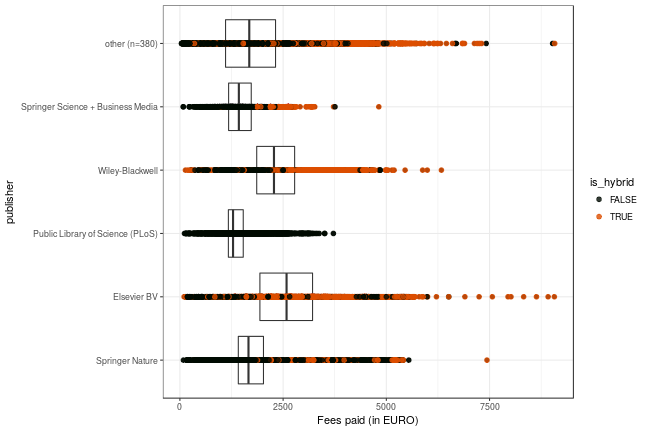
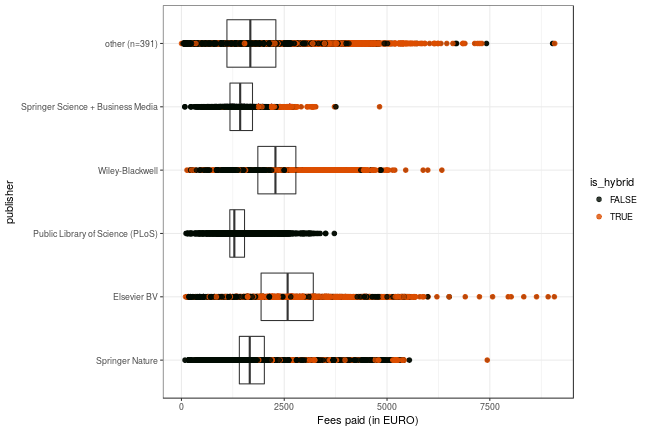
post: openapc-se ingestion

diff --git a/about.md b/about.md
@@ -247,13 +247,13 @@ Jisc Collections released data on APC payments made by UK higher education insti
 
 Information on both open access journal articles and open access publication of articles in toll-access journals ("hybrid") are provided.
 
-In total,  100 626 799 € for  52 945 articles were paid by the participating unviversities. Average  fee is 1 900.6 € and the median 1 701 €.
+In total,  102 770 206 € for  54 183 articles were paid by the participating unviversities. Average  fee is 1 896.7 € and the median 1 698 €.
 
 ### Open Access Journals
 
 
 
-At the moment, the dataset releases information on 31 090 articles in open access journals which charge publication fees. Total expenditure amounts to  46 254 724 €. Average  fee is 1 487.8 € and the median 1 413 €.
+At the moment, the dataset releases information on 31 816 articles in open access journals which charge publication fees. Total expenditure amounts to  47 255 463 €. Average  fee is 1 485.3 € and the median 1 409 €.
 
 View dataset on [GitHub](https://github.com/OpenAPC/openapc-de/blob/master/data/apc_de.csv).
 
@@ -271,11 +271,12 @@ View dataset on [GitHub](https://github.com/OpenAPC/openapc-de/blob/master/data/
 |BI Norwegian Business School                                    |        4|             2,761|           690|    724|
 |Bielefeld U                                                     |      430|           561,779|         1,306|  1,340|
 |Bochum U                                                        |      204|           304,382|         1,492|  1,562|
+|Borås University College                                        |       NA|                NA|            NA|     NA|
 |Bremen U                                                        |      390|           552,016|         1,415|  1,345|
 |Cardiff University                                              |      169|           289,389|         1,712|  1,562|
-|Chalmers University of Technology                               |        3|             2,142|           714|    560|
+|Chalmers University of Technology                               |        6|             5,817|           970|  1,012|
 |Cranfield University                                            |       10|            14,348|         1,435|  1,530|
-|Dalarna University College                                      |       27|            38,434|         1,423|  1,698|
+|Dalarna University College                                      |       28|            39,181|         1,399|  1,667|
 |Dortmund TU                                                     |       38|            39,184|         1,031|    962|
 |Duisburg-Essen U                                                |      235|           320,066|         1,362|  1,276|
 |Erlangen Nuernberg U                                            |      707|         1,017,252|         1,439|  1,514|
@@ -315,16 +316,17 @@ View dataset on [GitHub](https://github.com/OpenAPC/openapc-de/blob/master/data/
 |King's College London                                           |      197|           398,725|         2,024|  1,588|
 |KIT                                                             |      674|           903,682|         1,341|  1,382|
 |Konstanz U                                                      |      345|           524,743|         1,521|  1,506|
-|KTH Royal Institute of Technology                               |      106|           129,263|         1,219|  1,072|
+|KTH Royal Institute of Technology                               |      181|           217,262|         1,200|  1,152|
 |Lancaster University                                            |       28|            34,167|         1,220|  1,221|
 |Leibniz-Fonds                                                   |      274|           439,562|         1,604|  1,570|
 |Leipzig U                                                       |      415|           611,856|         1,474|  1,553|
-|Linköping University                                            |       99|           155,146|         1,567|  1,355|
+|Linköping University                                            |      167|           262,221|         1,570|  1,357|
+|Linnaeus University                                             |        1|               630|           630|    630|
 |LSE                                                             |       14|            26,721|         1,909|  1,798|
 |LSHTM                                                           |       44|            65,024|         1,478|  1,503|
-|Luleå University of Technology                                  |       15|            15,352|         1,023|  1,088|
-|Lund University                                                 |        7|             6,555|           936|    755|
-|Malmö University College                                        |        4|             4,007|         1,002|    890|
+|Luleå University of Technology                                  |       51|            53,627|         1,052|  1,150|
+|Lund University                                                 |       24|            32,295|         1,346|  1,410|
+|Malmö University                                                |       23|            25,942|         1,128|  1,394|
 |Manchester Metropolitan University                              |       10|            14,997|         1,500|  1,421|
 |MDC                                                             |       93|           188,106|         2,023|  1,800|
 |Milano U                                                        |      121|           185,356|         1,532|  1,495|
@@ -347,6 +349,7 @@ View dataset on [GitHub](https://github.com/OpenAPC/openapc-de/blob/master/data/
 |Norwegian University of Science and Technology                  |      115|           162,119|         1,410|  1,420|
 |Oldenburg U                                                     |      177|           215,062|         1,215|  1,361|
 |OpenAIRE                                                        |      537|           778,991|         1,451|  1,413|
+|Örebro University                                               |       64|            84,298|         1,317|  1,342|
 |Oslo and Akershus university college                            |       36|            45,728|         1,270|  1,252|
 |Oslo University Hospital                                        |      111|           149,777|         1,349|  1,392|
 |Osnabrück U                                                     |       65|            90,046|         1,385|  1,553|
@@ -360,10 +363,10 @@ View dataset on [GitHub](https://github.com/OpenAPC/openapc-de/blob/master/data/
 |SINTEF                                                          |        3|             3,633|         1,211|  1,176|
 |Sørlandet Hospital Trust                                        |        5|             8,453|         1,691|  1,667|
 |St George's, University of London                               |       19|            36,284|         1,910|  1,862|
-|Stockholm University                                            |       95|           144,255|         1,518|  1,399|
+|Stockholm University                                            |      273|           412,332|         1,510|  1,338|
 |Stuttgart U                                                     |      210|           254,329|         1,211|  1,261|
 |Swansea University                                              |       36|            59,942|         1,665|  1,332|
-|Swedish University of Agricultural Sciences                     |      343|           449,661|         1,311|  1,326|
+|Swedish University of Agricultural Sciences                     |      450|           595,056|         1,322|  1,328|
 |Swiss National Science Foundation (SNSF)                        |      244|           395,297|         1,620|  1,361|
 |TIB                                                             |        1|             1,619|         1,619|  1,619|
 |TiHo Hannover                                                   |      137|           194,193|         1,417|  1,416|
@@ -381,7 +384,7 @@ View dataset on [GitHub](https://github.com/OpenAPC/openapc-de/blob/master/data/
 |UCL                                                             |    1,643|         2,695,082|         1,640|  1,534|
 |UFZ                                                             |       40|            42,186|         1,055|    979|
 |Ulm U                                                           |      191|           294,038|         1,539|  1,541|
-|Umeå University                                                 |        8|             6,104|           763|    724|
+|Umeå University                                                 |       10|            10,604|         1,060|    755|
 |Uni Research                                                    |       19|            28,070|         1,477|  1,474|
 |Universitat de Barcelona                                        |      465|           443,659|           954|    897|
 |Université de Bordeaux                                          |       19|            27,522|         1,449|  1,258|
@@ -395,6 +398,7 @@ View dataset on [GitHub](https://github.com/OpenAPC/openapc-de/blob/master/data/
 |Université Nice-Sophia-Antipolis                                |        2|             2,600|         1,300|  1,300|
 |Université Pierre et Marie Curie (Paris VI)                     |       32|            50,846|         1,589|  1,396|
 |University College of Southeast Norway                          |       19|            19,107|         1,006|    907|
+|University College West                                         |        6|             4,868|           811|    729|
 |University of Aberdeen                                          |       26|            48,895|         1,881|  1,787|
 |University of Agder                                             |       62|            42,571|           687|    536|
 |University of Bath                                              |       35|            48,597|         1,388|  1,392|
@@ -407,7 +411,7 @@ View dataset on [GitHub](https://github.com/OpenAPC/openapc-de/blob/master/data/
 |University of Edinburgh                                         |      157|           268,393|         1,710|  1,632|
 |University of Exeter                                            |       59|           103,364|         1,752|  1,395|
 |University of Glasgow                                           |      144|           272,944|         1,895|  1,568|
-|University of Gothenburg                                        |      192|           292,079|         1,521|  1,406|
+|University of Gothenburg                                        |      331|           490,458|         1,482|  1,406|
 |University of Huddersfield                                      |        3|             3,452|         1,151|  1,192|
 |University of Hull                                              |        5|             7,548|         1,510|  1,635|
 |University of Leicester                                         |       50|            82,629|         1,653|  1,652|
@@ -430,7 +434,7 @@ View dataset on [GitHub](https://github.com/OpenAPC/openapc-de/blob/master/data/
 |University of Tromsø - The Arctic University of Norway          |      179|           252,462|         1,410|  1,523|
 |University of Warwick                                           |       74|           146,885|         1,985|  1,639|
 |University of York                                              |      102|           176,418|         1,730|  1,530|
-|Uppsala University                                              |        8|             6,467|           808|    691|
+|Uppsala University                                              |       18|            15,612|           867|    874|
 |Vestfold Hospital Trust                                         |        4|             6,134|         1,533|  1,532|
 |Vestre Viken Hospital Trust                                     |        4|             5,796|         1,449|  1,555|
 |Virginia Tech                                                   |      153|           165,423|         1,081|  1,216|
@@ -442,7 +446,7 @@ View dataset on [GitHub](https://github.com/OpenAPC/openapc-de/blob/master/data/
 
 
 In many toll-access journals some of the articles are open access after a fee has been paid. This model is often called "hybrid open access".
-The dataset covers 21 855 hybrid open access articles. Total expenditure amounts to  54 372 075 €. Average  fee is 2 487.9 € and the median 2 444 €.
+The dataset covers 22 367 hybrid open access articles. Total expenditure amounts to  55 514 743 €. Average  fee is 2 482 € and the median 2 441 €.
 
 The following institutions have contributed its expenditures for hybrid open access.
 
@@ -454,10 +458,11 @@ The following institutions have contributed its expenditures for hybrid open acc
 |Aston University                            |       76|           164,750|         2,168|  2,174|
 |Bangor University                           |       39|           106,903|         2,741|  2,714|
 |Bergen University College                   |        1|               503|           503|    503|
+|Borås University College                    |        1|             1,950|         1,950|  1,950|
 |Cardiff University                          |      522|         1,302,192|         2,495|  2,555|
 |Chalmers University of Technology           |        7|            16,723|         2,389|  2,429|
 |Cranfield University                        |       66|           186,639|         2,828|  2,901|
-|Dalarna University College                  |       13|            33,705|         2,593|  2,690|
+|Dalarna University College                  |       12|            32,958|         2,746|  2,710|
 |Dortmund TU                                 |        1|             1,581|         1,581|  1,581|
 |Duisburg-Essen U                            |        9|            23,845|         2,649|  2,618|
 |Erlangen Nuernberg U                        |        1|             1,638|         1,638|  1,638|
@@ -484,35 +489,36 @@ The following institutions have contributed its expenditures for hybrid open acc
 |King's College London                       |      548|         1,482,684|         2,706|  2,641|
 |KIT                                         |        1|             2,000|         2,000|  2,000|
 |Konstanz U                                  |        3|             5,556|         1,852|  1,950|
-|KTH Royal Institute of Technology           |       30|            58,195|         1,940|  2,109|
+|KTH Royal Institute of Technology           |      136|           248,396|         1,826|  1,848|
 |Lancaster University                        |       88|           200,823|         2,282|  2,221|
-|Linköping University                        |       33|            69,756|         2,114|  2,132|
+|Linköping University                        |       54|           111,882|         2,072|  2,132|
 |LSE                                         |       44|            86,452|         1,965|  2,067|
 |LSHTM                                       |       79|           199,854|         2,530|  2,287|
-|Luleå University of Technology              |       13|            28,385|         2,183|  2,429|
-|Lund University                             |       36|            71,500|         1,986|  2,132|
-|Malmö University College                    |        6|            14,883|         2,480|  2,530|
+|Luleå University of Technology              |       32|            67,536|         2,110|  2,290|
+|Lund University                             |       39|            77,850|         1,996|  2,132|
+|Malmö University                            |       10|            22,099|         2,210|  2,349|
 |Manchester Metropolitan University          |       16|            34,362|         2,148|  2,198|
 |MDC                                         |       29|            74,019|         2,552|  2,200|
 |Milano U                                    |       28|            62,792|         2,243|  2,300|
 |MPG                                         |       10|             9,179|           918|    958|
 |Northumbria University                      |       30|            67,687|         2,256|  2,135|
 |OpenAIRE                                    |        1|             2,000|         2,000|  2,000|
+|Örebro University                           |       44|            89,852|         2,042|  2,150|
 |Plymouth University                         |       18|            44,466|         2,470|  2,482|
 |Queen Mary, University of London            |      130|           296,514|         2,281|  2,024|
 |Queen's University Belfast                  |       34|            86,290|         2,538|  2,495|
 |Royal Holloway                              |       34|            79,500|         2,338|  2,079|
 |St George's, University of London           |       23|            67,276|         2,925|  2,756|
-|Stockholm University                        |      150|           307,521|         2,050|  2,200|
+|Stockholm University                        |      300|           667,673|         2,226|  2,302|
 |Swansea University                          |      110|           273,581|         2,487|  2,576|
-|Swedish University of Agricultural Sciences |      154|           347,982|         2,260|  2,200|
+|Swedish University of Agricultural Sciences |      220|           520,879|         2,368|  2,330|
 |Swiss National Science Foundation (SNSF)    |       58|           119,225|         2,056|  2,153|
 |TiHo Hannover                               |        9|            16,412|         1,824|  1,595|
 |TU Chemnitz                                 |        1|               100|           100|    100|
 |TU Clausthal                                |        3|             7,082|         2,361|  2,500|
 |UCL                                         |    2,884|         6,377,902|         2,211|  1,997|
 |Ulm U                                       |       17|            35,219|         2,072|  2,319|
-|Umeå University                             |       22|            43,072|         1,958|  2,132|
+|Umeå University                             |       23|            45,340|         1,971|  2,132|
 |Université de Bordeaux                      |        1|             2,709|         2,709|  2,709|
 |Université de Bourgogne                     |        1|             1,950|         1,950|  1,950|
 |Université de Poitiers                      |        2|             3,836|         1,918|  1,918|
@@ -522,6 +528,7 @@ The following institutions have contributed its expenditures for hybrid open acc
 |Université Lille 1                          |        5|            14,411|         2,882|  2,959|
 |Université Lille 2                          |        1|             3,977|         3,977|  3,977|
 |Université Pierre et Marie Curie (Paris VI) |        5|            12,458|         2,492|  2,275|
+|University College West                     |        4|             8,395|         2,099|  2,022|
 |University of Aberdeen                      |       34|           101,418|         2,983|  2,809|
 |University of Bath                          |      146|           316,976|         2,171|  2,052|
 |University of Birmingham                    |      571|         1,401,746|         2,455|  2,480|
@@ -532,7 +539,7 @@ The following institutions have contributed its expenditures for hybrid open acc
 |University of Edinburgh                     |      299|           793,402|         2,654|  2,618|
 |University of Exeter                        |      101|           269,157|         2,665|  2,669|
 |University of Glasgow                       |      448|         1,120,600|         2,501|  2,467|
-|University of Gothenburg                    |      106|           262,238|         2,474|  2,755|
+|University of Gothenburg                    |      197|           479,499|         2,434|  2,523|
 |University of Huddersfield                  |       29|            36,984|         1,275|    968|
 |University of Hull                          |       10|            26,794|         2,679|  2,640|
 |University of Leicester                     |      110|           277,033|         2,518|  2,326|
@@ -552,7 +559,7 @@ The following institutions have contributed its expenditures for hybrid open acc
 |University of Sussex                        |       97|           236,396|         2,437|  2,335|
 |University of Warwick                       |      267|           679,743|         2,546|  2,574|
 |University of York                          |      148|           365,651|         2,471|  2,389|
-|Uppsala University                          |       23|            47,629|         2,071|  2,132|
+|Uppsala University                          |       26|            53,226|         2,047|  2,132|
 |Virginia Tech                               |       14|            20,480|         1,463|  1,256|
 |Wellcome Trust                              |    2,767|         7,117,449|         2,572|  2,565|
 

diff --git a/_posts/2018-07-04-openapc-se.md b/_posts/2018-07-04-openapc-se.md
@@ -1,0 +1,156 @@
+---
+layout:     post
+author:     Christoph Broschinski
+author_lnk: https://github.com/cbroschinski
+title:      New articles ingested from OpenAPC Sweden
+date:       2018-07-04 09:00:00
+summary:    
+categories: [general, openAPC]
+comments: true
+---
+
+
+
+
+Our partner project [OpenAPC Sweden](https://github.com/Kungbib/openapc-se) collects APC data from institutions in Sweden. 
+
+New articles ingested after our [first exchange](https://openapc.github.io/general/openapc/2017/09/18/openapc-se/) in 2017 have now been added to OpenAPC as well.
+
+
+## Cost data
+
+
+
+The ingested data covers publication fees for 2,770 articles published by Swedish institutions (This includes all articles already imported in September 2017). Total expenditure amounts to 4 737 102€ and the average fee is 1 710€.
+
+Note that OpenAPC did neither include articles already present in its [offsetting data collection](https://github.com/OpenAPC/openapc-de/tree/master/data/offsetting) nor articles with a cost of 0€, so the net intake is lower than what might be expected.
+
+The following table and plots show a breakdown of the payments.
+
+### Overview
+
+
+|                                                              | Articles| Fees paid in EURO| Mean Fee paid|
+|:-------------------------------------------------------------|--------:|-----------------:|-------------:|
+|Springer Nature                                               |      506|            853246|          1686|
+|Elsevier BV                                                   |      349|            763646|          2188|
+|Informa UK Limited                                            |      301|            495012|          1645|
+|Wiley-Blackwell                                               |      275|            665622|          2420|
+|Public Library of Science (PLoS)                              |      243|            329956|          1358|
+|MDPI AG                                                       |      172|            184352|          1072|
+|Frontiers Media SA                                            |      121|            203233|          1680|
+|Copernicus GmbH                                               |       83|            103808|          1251|
+|Oxford University Press (OUP)                                 |       72|            146895|          2040|
+|Royal Society of Chemistry (RSC)                              |       71|            111076|          1564|
+|Springer Science + Business Media                             |       58|             98118|          1692|
+|American Chemical Society (ACS)                               |       55|             77131|          1402|
+|Hindawi Publishing Corporation                                |       50|             29475|           589|
+|SAGE Publications                                             |       34|             53104|          1562|
+|IOP Publishing                                                |       30|             55601|          1853|
+|BMJ                                                           |       20|             37874|          1894|
+|S. Karger AG                                                  |       18|             17048|           947|
+|American Geophysical Union (AGU)                              |       16|             40880|          2555|
+|Dove Medical Press Ltd.                                       |       16|             28718|          1795|
+|Scientific Research Publishing, Inc,                          |       15|             12526|           835|
+|AIP Publishing                                                |       13|             20999|          1615|
+|Resilience Alliance, Inc.                                     |       13|             12015|           924|
+|Institute of Electrical & Electronics Engineers (IEEE)        |       12|             16702|          1392|
+|American Association for the Advancement of Science (AAAS)    |       10|             28680|          2868|
+|Cambridge University Press (CUP)                              |       10|             23146|          2315|
+|American Meteorological Society                               |        9|             19086|          2121|
+|Impact Journals, LLC                                          |        9|             23517|          2613|
+|Proceedings of the National Academy of Sciences               |        9|             20438|          2271|
+|Walter de Gruyter GmbH                                        |        9|             13075|          1453|
+|OMICS Publishing Group                                        |        8|              6758|           845|
+|American Physical Society (APS)                               |        7|             13171|          1882|
+|Ovid Technologies (Wolters Kluwer Health)                     |        7|             10045|          1435|
+|The Royal Society                                             |        7|             14332|          2047|
+|American Dairy Science Association                            |        6|             11951|          1992|
+|The Company of Biologists                                     |        6|             17146|          2858|
+|American Society of Plant Biologists (ASPB)                   |        5|             11556|          2311|
+|Pensoft Publishers                                            |        5|              2678|           536|
+|Acta Dermato-Venereologica                                    |        4|              4041|          1010|
+|American Society for Microbiology                             |        4|              9066|          2266|
+|Genetics Society of America                                   |        4|              7045|          1761|
+|JMIR Publications Inc.                                        |        4|              7059|          1765|
+|Sciedu Press                                                  |        4|              1198|           299|
+|The Electrochemical Society                                   |        4|              2700|           675|
+|Wageningen Academic Publishers                                |        4|              6650|          1662|
+|David Publishing Company                                      |        3|              3400|          1133|
+|EMBO                                                          |        3|             11343|          3781|
+|Emerald                                                       |        3|              4191|          1397|
+|Geological Society of London                                  |        3|              5319|          1773|
+|SPIE-Intl Soc Optical Eng                                     |        3|              2033|           678|
+|Academic Journals                                             |        2|               590|           295|
+|American Psychological Association (APA)                      |        2|              5400|          2700|
+|Bentham Science Publishers Ltd.                               |        2|              1452|           726|
+|Brill                                                         |        2|              2660|          1330|
+|Cogitatio                                                     |        2|              1727|           864|
+|Gavin Publishers                                              |        2|              2646|          1323|
+|Inter-Research Science Center                                 |        2|              2900|          1450|
+|International Union of Crystallography (IUCr)                 |        2|              1971|           986|
+|John Benjamins Publishing Company                             |        2|              3400|          1700|
+|Mary Ann Liebert Inc                                          |        2|              5034|          2517|
+|MDPI                                                          |        2|              1584|           792|
+|Optical Society of America (OSA)                              |        2|              3277|          1638|
+|Scandinavian Journal of Work, Environment and Health          |        2|              3500|          1750|
+|Society for Sociological Science                              |        2|              1109|           554|
+|Taylor & Francis                                              |        2|              1844|           922|
+|Trans Tech Publications                                       |        2|               480|           240|
+|Academic Conferences and Publishing International             |        1|               276|           276|
+|Acoustical Society of America (ASA)                           |        1|              1780|          1780|
+|American Association for Cancer Research (AACR)               |        1|              2641|          2641|
+|American Society for Biochemistry & Molecular Biology (ASBMB) |        1|              3404|          3404|
+|American Society for Clinical Investigation                   |        1|              2629|          2629|
+|American Society of Civil Engineers (ASCE)                    |        1|              1397|          1397|
+|American Society of Clinical Oncology (ASCO)                  |        1|              3095|          3095|
+|American Society of Nephrology (ASN)                          |        1|               650|           650|
+|American Speech Language Hearing Association                  |        1|              2174|          2174|
+|Annex Publishers, LLC                                         |        1|               611|           611|
+|Association for Research in Vision and Ophthalmology (ARVO)   |        1|              1219|          1219|
+|Baishideng Publishing Group Inc.                              |        1|              1971|          1971|
+|BioMed Central                                                |        1|               140|           140|
+|BioResources                                                  |        1|               931|           931|
+|BioScientifica                                                |        1|              3950|          3950|
+|Canadian Center of Science and Education                      |        1|               265|           265|
+|Canadian Science Publishing                                   |        1|              2833|          2833|
+|Cappelen Damm AS - Cappelen Damm Akademisk                    |        1|               668|           668|
+|Cold Spring Harbor Laboratory Press                           |        1|              2354|          2354|
+|Crop Science Society of America                               |        1|               890|           890|
+|CSIRO Publishing                                              |        1|              2488|          2488|
+|eLife Sciences Organisation, Ltd.                             |        1|              2002|          2002|
+|Elsevier                                                      |        1|               270|           270|
+|Graphyonline Publications PVT, Ltd.                           |        1|               374|           374|
+|Informa Healthcare                                            |        1|              3040|          3040|
+|Intellect                                                     |        1|              1140|          1140|
+|IOS Press                                                     |        1|              1250|          1250|
+|IWA Publishing                                                |        1|              1562|          1562|
+|Japan Society for Occupational Health                         |        1|               266|           266|
+|Magnolia Press                                                |        1|               270|           270|
+|MIT Press - Journals                                          |        1|              1125|          1125|
+|MyJove Corporation                                            |        1|              1578|          1578|
+|Nature Publishing Group                                       |        1|              2400|          2400|
+|Portland Press Ltd.                                           |        1|               652|           652|
+|Redfame Publishing                                            |        1|               227|           227|
+|Remedy Publications LLC.                                      |        1|              1620|          1620|
+|Royal College of Psychiatrists                                |        1|              1425|          1425|
+|Scientific Research Publishing                                |        1|                95|            95|
+|Scitechnol Biosoft Pvt. Ltd.                                  |        1|               360|           360|
+|Symbiosis Group                                               |        1|               646|           646|
+|The Endocrine Society                                         |        1|              1009|          1009|
+|Tresorix Ltd                                                  |        1|               179|           179|
+|Ubiquity Press, Ltd.                                          |        1|               413|           413|
+|University of California Press                                |        1|              1223|          1223|
+|World Scientific Pub Co Pte Lt                                |        1|              1379|          1379|
+
+### Fees paid per publisher (in EURO)
+
+![plot of chunk tree_openapc_se_2018_07_04_full](/figure/tree_openapc_se_2018_07_04_full-1.png)
+
+###  Average costs per year (in EURO)
+
+![plot of chunk box_openapc_se_2018_07_04_year_full](/figure/box_openapc_se_2018_07_04_year_full-1.png)
+
+###  Average costs per publisher (in EURO)
+
+![plot of chunk box_openapc_se_2018_07_04_publisher_full](/figure/box_openapc_se_2018_07_04_publisher_full-1.png)
